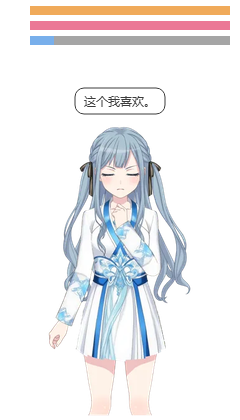
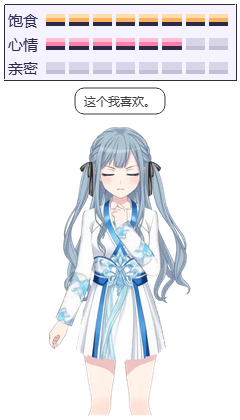
数值面板改像素风 HUD；采集工具的产品名统一到单一来源
面板（src/petapp/window.py PetWindow._paint_stat_bars）：
- 浅紫纸底 #f4f1ff(alpha 226) + 1 像素深靛 #2b2a4a 描边，四角各抠一像素做切角；无渐变、无阴影、无圆角。
- 每条数值 8 段方块，段间 1 像素缝；填充段三层（顶 1 像素高光 / 本色 / 底 1 像素深色收边），
  空格段 #d9d4e8 配 #c4bed6 收边。像素格 px = max(2, round(pet_h/220*3))，随三档体型缩放。
- 名称 饱食 / 心情 / 亲密 移到左侧独立文字列（不再压在条上），按各行垂直居中。
- 行高改为跟随字体：max(px*5, QFontMetrics(font).height()+px)；字号 min(11, max(8, round(pet_h/26)))。
  150 档上原来按条高排的行高小于中文字高，第一行标签会顶进面板上边框。
- 几何量抽成 _panel_metrics()，绘制与测试共用；气泡高度 26 提成常量 BUBBLE_H。

新增测试：
- tests/test_app_window.py::test_stat_panel_clears_the_bubble_band —— 三档体型上断言
  面板底边不超过气泡顶边、行高不小于字体高。真实窗口平台实测面板底 55/60/80，气泡顶恒 88。
- tests/test_scaffold.py 的产品名断言扩到四处：tray.APP_NAME、build_exe.SHIP_NAME、
  accept_shots.EXE、measure_perf.EXE_NAME。

修掉一个改名漏项：tools/accept_shots.py 与 tools/measure_perf.py 各自硬编码着旧产物名
凤川祥模拟器.exe，导致 tools/accept_shots.py --exe 实际驱动的是上一轮遗留的旧 exe，
出图仍是旧面板。两处改为从 build_exe.SHIP_NAME 派生。

记录一个会让视觉证据整批作废的开关：%APPDATA%\DesktopPetSakiko\settings.json 里 paused=true 时
_on_tick 不走时间轴，12 个场景全停在 sakiko_idle01 第 0 帧且图片哈希相同；采集改为把 APPDATA
指到临时目录，不动用户存档。

文档：docs/screenshots/ 四张换成新面板这一轮（12 张互不相同、slug 与请求动作一一对应），
docs/ACCEPTANCE-20261011.md 尾部追加"追加三"，README 的数值条目补上皮风与左列名称的说明。
历史段落不回改。

本仓自检 ./.venv/Scripts/python.exe -m pytest -q → 113 passed / 4 skipped。
exe 侧证据（主工作区同源码重打）：113,502,651 B，sha256 2ff4d64165614e09…，内嵌 gitCommit c31cb08。

Changed region(s): [[0.0, 0.0, 0.9917, 0.1857]]

diff --git a/src/petapp/window.py b/src/petapp/window.py
@@ -12,7 +12,7 @@ from dataclasses import replace
 from datetime import datetime
 
 from PySide6.QtCore import QPoint, QRectF, Qt, QTimer
-from PySide6.QtGui import QColor, QFont, QPainter, QPainterPath, QPixmap
+from PySide6.QtGui import QColor, QFont, QFontMetrics, QPainter, QPainterPath, QPixmap
 from PySide6.QtWidgets import QApplication, QMenu, QWidget
 from petapp import menu as menu_mod
 from petapp.frames import FrameStore
@@ -32,6 +32,7 @@ DRAG_THRESHOLD = 6
 CLICK_MAX_MS = 0.15
 DOUBLE_CLICK_WINDOW = 0.25
 BUBBLE_SPACE = 120
+BUBBLE_H = 26
 SCALE_PRESETS = (150, 220, 300)
 BUBBLE_SECONDS = 3.2
 STATS_TICK_SECONDS = 60.0
@@ -444,7 +445,7 @@ class PetWindow(QWidget):
         p.setFont(QFont("Microsoft YaHei", 9))
         fm = p.fontMetrics()
         w = min(self.width() - 4, fm.horizontalAdvance(self._bubble_text) + 18)
-        h = 26
+        h = BUBBLE_H
         x = max(2.0, (self.width() - w) / 2)
         y = max(0.0, self.height() - self.pet_h - h - 6)
         path = QPainterPath()
@@ -454,18 +455,66 @@ class PetWindow(QWidget):
         p.drawPath(path)
         p.drawText(QPoint(round(x + 9), round(y + h - 8)), self._bubble_text)
 
+    def _panel_metrics(self) -> tuple[int, int, int, QFont]:
+        """(pixel unit, row height, panel height, label font) for the stat panel.
+
+        The row band follows the font rather than the bar, because at the 150 px body size a
+        bar-only step clips the labels into the frame above them. The font is capped so the panel
+        stays inside the empty band above the head, which is also where the bubble lands.
+        """
+        px = max(2, round(self.pet_h / 220 * 3))
+        font = QFont("Microsoft YaHei", min(11, max(8, round(self.pet_h / 26))))
+        row_h = max(px * 5, QFontMetrics(font).height() + px)
+        return px, row_h, row_h * 3 + px, font
+
     def _paint_stat_bars(self, p: QPainter) -> None:
-        rows = (("\u9971\u98df", self.stats.satiety, QColor(240, 170, 90)),
-                ("\u5fc3\u60c5", self.stats.mood, QColor(235, 120, 150)),
-                ("\u4eb2\u5bc6", self.stats.affection, QColor(120, 175, 235)))
-        y = 4
-        p.setFont(QFont("Microsoft YaHei", 8))
-        for label, value, color in rows:
-            p.setPen(QColor(255, 255, 255, 200))
-            p.drawText(4, y + 10, label)
-            p.fillRect(QRectF(30, y + 2, self.width() - 40, 9), QColor(0, 0, 0, 90))
-            p.fillRect(QRectF(30, y + 2, (self.width() - 40) * max(0.0, min(1.0, value / 100)), 9), color)
-            y += 15
+        """Pixel panel: flat pastel blocks on an outlined light frame, no gradients.
+
+        Everything sits on a "pixel" grid that scales with the body size, and each row's name goes in
+        the empty left column rather than over the bar, so it stays readable against any wallpaper.
+        """
+        rows = (("\u9971\u98df", self.stats.satiety, QColor(255, 178, 92), QColor(255, 221, 170)),
+                ("\u5fc3\u60c5", self.stats.mood, QColor(255, 127, 168), QColor(255, 190, 212)),
+                ("\u4eb2\u5bc6", self.stats.affection, QColor(126, 178, 255), QColor(191, 217, 255)))
+        ink = QColor(43, 42, 74)                       # the panel's only dark value: outline + labels
+        paper = QColor(244, 241, 255, 226)
+        empty = QColor(217, 212, 232)
+        empty_foot = QColor(196, 190, 214)
+        px, row_h, panel_h, font = self._panel_metrics()
+        p.setFont(font)
+        fm = p.fontMetrics()
+        bar_h = px * 3
+        panel = QRectF(px, px, self.width() - px * 2, panel_h)
+        p.setRenderHint(QPainter.RenderHint.Antialiasing, False)
+        p.fillRect(panel, paper)
+        p.setPen(ink)
+        p.setBrush(Qt.BrushStyle.NoBrush)
+        p.drawRect(panel)
+        for cx, cy in ((panel.left(), panel.top()), (panel.right() - 1, panel.top()),
+                       (panel.left(), panel.bottom() - 1), (panel.right() - 1, panel.bottom() - 1)):
+            p.fillRect(QRectF(cx, cy, 1, 1), paper)    # notched corners
+
+        p.setPen(ink)
+        label_col = max(fm.horizontalAdvance(row[0]) for row in rows) + px * 2
+        bar_x = panel.left() + px + label_col
+        segs = 8
+        seg_w = max(1.0, (panel.right() - px * 2 - bar_x - px * (segs - 1)) / segs)
+        for i, (label, value, fill, highlight) in enumerate(rows):
+            band = panel.top() + px + i * row_h
+            top = band + (row_h - bar_h) / 2
+            p.drawText(QRectF(panel.left() + px, band, label_col, row_h),
+                       int(Qt.AlignmentFlag.AlignVCenter | Qt.AlignmentFlag.AlignLeft), label)
+            filled = round(max(0.0, min(1.0, value / 100)) * segs)
+            for s in range(segs):
+                sx = bar_x + s * (seg_w + px)
+                if s < filled:
+                    p.fillRect(QRectF(sx, top, seg_w, bar_h), fill)
+                    p.fillRect(QRectF(sx, top, seg_w, px), highlight)
+                    p.fillRect(QRectF(sx, top + bar_h - px, seg_w, px), ink)
+                else:
+                    p.fillRect(QRectF(sx, top, seg_w, bar_h), empty)
+                    p.fillRect(QRectF(sx, top + bar_h - px, seg_w, px), empty_foot)
+        p.setRenderHint(QPainter.RenderHint.Antialiasing, True)
 
 
 def QCursor_pos() -> QPoint:

diff --git a/tests/test_app_window.py b/tests/test_app_window.py
@@ -143,6 +143,25 @@ def test_menu_actions_change_state(qapp, win):
     qapp.processEvents()
 
 
+def test_stat_panel_clears_the_bubble_band(qapp, win):
+    """Panel and bubble share the empty band above the head, so they must never overlap.
+
+    Checked at every body size because both grow with it: the panel from the label font, the bubble
+    position from the frame height.
+    """
+    from PySide6.QtGui import QFontMetrics
+    from petapp.window import BUBBLE_H, BUBBLE_SPACE, SCALE_PRESETS
+
+    for index, height in enumerate(SCALE_PRESETS):
+        win.set_scale_index(index)
+        px, row_h, panel_h, font = win._panel_metrics()
+        assert win.height() == height + BUBBLE_SPACE, height
+        panel_bottom = px + panel_h
+        bubble_top = win.height() - win.pet_h - BUBBLE_H - 6
+        assert panel_bottom <= bubble_top, (height, panel_bottom, bubble_top)
+        assert row_h >= QFontMetrics(font).height(), height
+
+
 def test_click_through_toggle_does_not_raise(qapp, win):
     win.set_click_through_enabled(True)
     win.set_click_through_enabled(False)

diff --git a/tests/test_scaffold.py b/tests/test_scaffold.py
@@ -47,11 +47,17 @@ def test_ship_name_and_display_name_are_the_same_string():
     tools/build_exe.py only runs PyInstaller under __main__, so importing it here is side-effect free.
     """
     sys.path.insert(0, str(ROOT / "tools"))
+    import accept_shots
     import build_exe
+    import measure_perf
     from petapp.tray import APP_NAME
 
     assert build_exe.SHIP_NAME == APP_NAME, (build_exe.SHIP_NAME, APP_NAME)
     assert APP_NAME == "\u4e30\u5ddd\u7965\u5b50\u684c\u5ba0\u6a21\u62df\u5668", repr(APP_NAME)
+    # The two acceptance tools used to carry their own copy of the name and both went stale on
+    # 2026-10-12, which is how a capture run ended up driving the previous build.
+    assert accept_shots.EXE.name == build_exe.SHIP_NAME + ".exe", accept_shots.EXE
+    assert measure_perf.EXE_NAME == build_exe.SHIP_NAME + ".exe", measure_perf.EXE_NAME
 
 
 def test_python_runtime_is_inside_the_project_venv():

diff --git a/tools/measure_perf.py b/tools/measure_perf.py
@@ -18,6 +18,8 @@ import sys
 import time
 from ctypes import wintypes
 
+from build_exe import SHIP_NAME
+
 PROJECT = pathlib.Path(__file__).resolve().parents[1]
 PROCESS_QUERY_LIMITED_INFORMATION = 0x1000
 PROCESS_QUERY_INFORMATION = 0x0400
@@ -91,7 +93,7 @@ def sample(pid: int, seconds: float, interval: float = 1.0) -> dict:
         round(x / 1048576, 1) for x in rss], "sampled_seconds": round(time.perf_counter() - t0, 1)}
 
 
-EXE_NAME = "\u51e4\u5ddd\u7965\u6a21\u62df\u5668.exe"     # built from code points, never argv
+EXE_NAME = f"{SHIP_NAME}.exe"            # shared with the packager, so a rename cannot miss a tool
 
 
 def main(argv=None) -> int:

diff --git a/tools/accept_shots.py b/tools/accept_shots.py
@@ -21,8 +21,10 @@ import subprocess
 import sys
 import time
 
+from build_exe import SHIP_NAME          # one shipping name, shared with the packager
+
 PROJECT = pathlib.Path(__file__).resolve().parents[1]
-EXE = PROJECT / "dist" / "\u51e4\u5ddd\u7965\u6a21\u62df\u5668.exe"
+EXE = PROJECT / "dist" / f"{SHIP_NAME}.exe"
 RUN_SCRIPT = PROJECT / "run.py"
 
 

diff --git a/README.md b/README.md
@@ -25,7 +25,11 @@ background here but composites over your wallpaper when it is running.
   control back.
 - **Scroll wheel** cycles three body sizes: 150 / 220 / 300 px (default 220).
 - **Raising stats** — fullness, mood, affection, decaying on real elapsed time; four foods in the
-  feed menu with different effects; bars drawn above her head inside the same transparent window.
+  feed menu with different effects. The panel is a flat pixel-art HUD: a light lavender plate with a
+  1-pixel indigo outline and notched corners, each stat drawn as 8 chunky segments (highlight row,
+  body, dark foot), and the row names 饱食 / 心情 / 亲密 written in their own left column instead of
+  over the bars. It is painted by `PetWindow._paint_stat_bars` on a pixel grid that scales with the
+  body size, inside the same transparent window — no second top-level widget.
 - **Widgets** — hourly chime, sedentary reminder (reads `GetLastInputInfo`, so it stays quiet while
   you are typing), pomodoro (the pet goes into a quiet state instead of stealing focus from your work).
 - **Persistence** — `%APPDATA%\DesktopPetSakiko\`, saved on close and re-read on start; offline decay
